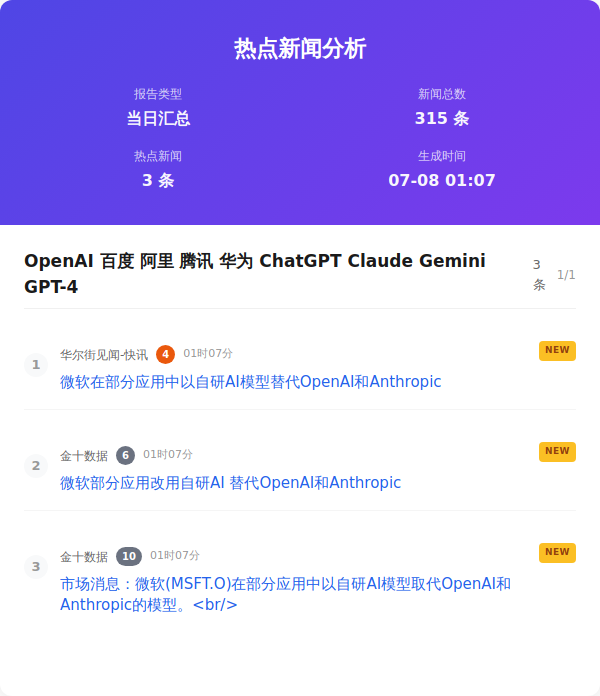
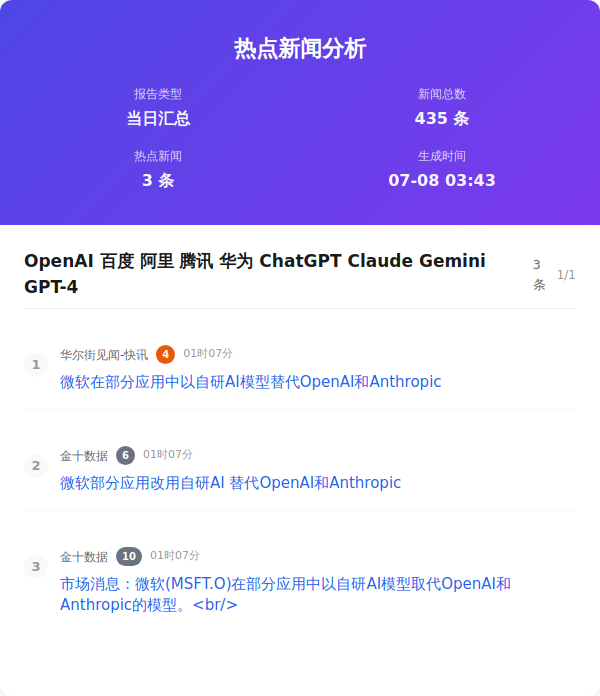
Auto update by GitHub Actions at Wed Jul  8 03:43:25 CST 2026

diff --git a/output/2026年07月08日/html/当日汇总.html b/output/2026年07月08日/html/当日汇总.html
@@ -357,7 +357,7 @@
                     </div>
                     <div class="info-item">
                         <span class="info-label">新闻总数</span>
-                        <span class="info-value">315 条</span>
+                        <span class="info-value">435 条</span>
                     </div>
                     <div class="info-item">
                         <span class="info-label">热点新闻</span>
@@ -365,7 +365,7 @@
                     </div>
                     <div class="info-item">
                         <span class="info-label">生成时间</span>
-                        <span class="info-value">07-08 01:07</span>
+                        <span class="info-value">07-08 03:43</span>
                     </div>
                 </div>
             </div>
@@ -379,7 +379,7 @@
                         </div>
                         <div class="word-index">1/1</div>
                     </div>
-                    <div class="news-item new">
+                    <div class="news-item ">
                         <div class="news-number">1</div>
                         <div class="news-content">
                             <div class="news-header">
@@ -389,7 +389,7 @@
                             </div>
                         </div>
                     </div>
-                    <div class="news-item new">
+                    <div class="news-item ">
                         <div class="news-number">2</div>
                         <div class="news-content">
                             <div class="news-header">
@@ -399,7 +399,7 @@
                             </div>
                         </div>
                     </div>
-                    <div class="news-item new">
+                    <div class="news-item ">
                         <div class="news-number">3</div>
                         <div class="news-content">
                             <div class="news-header">